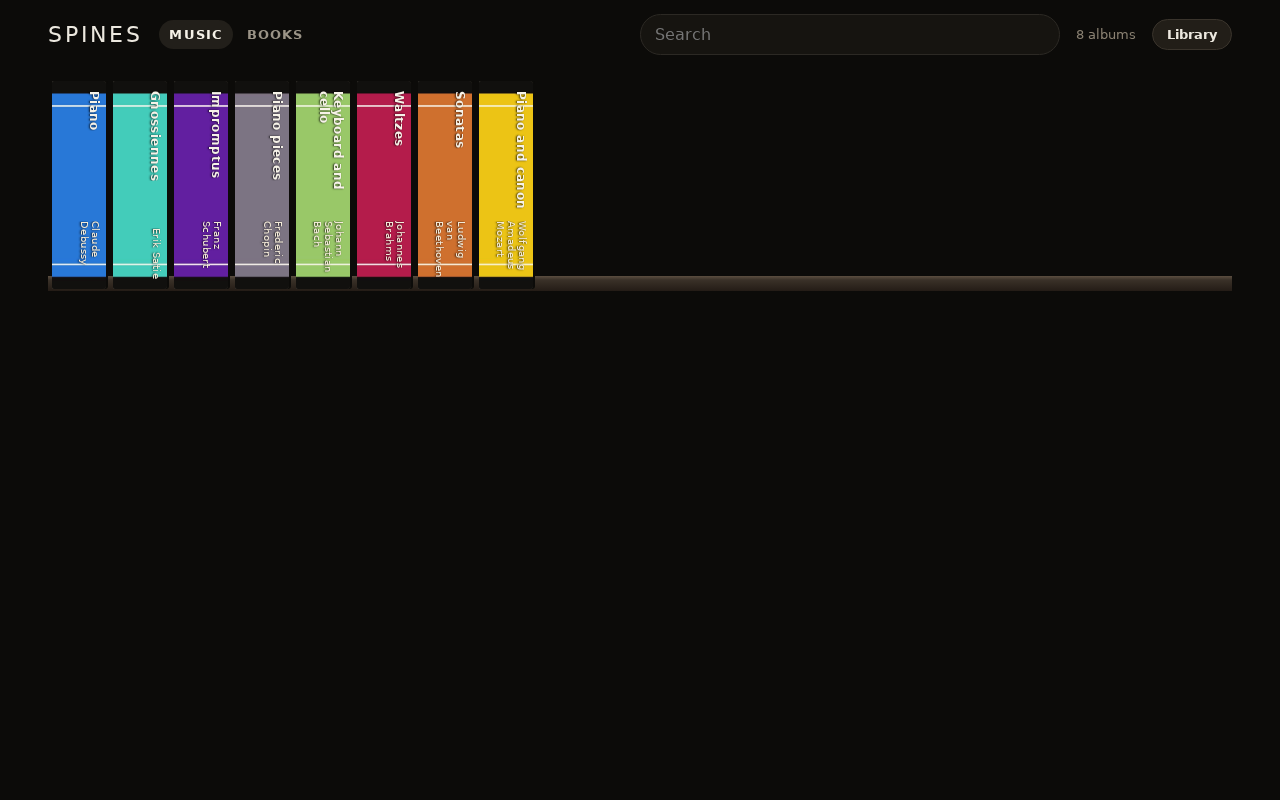
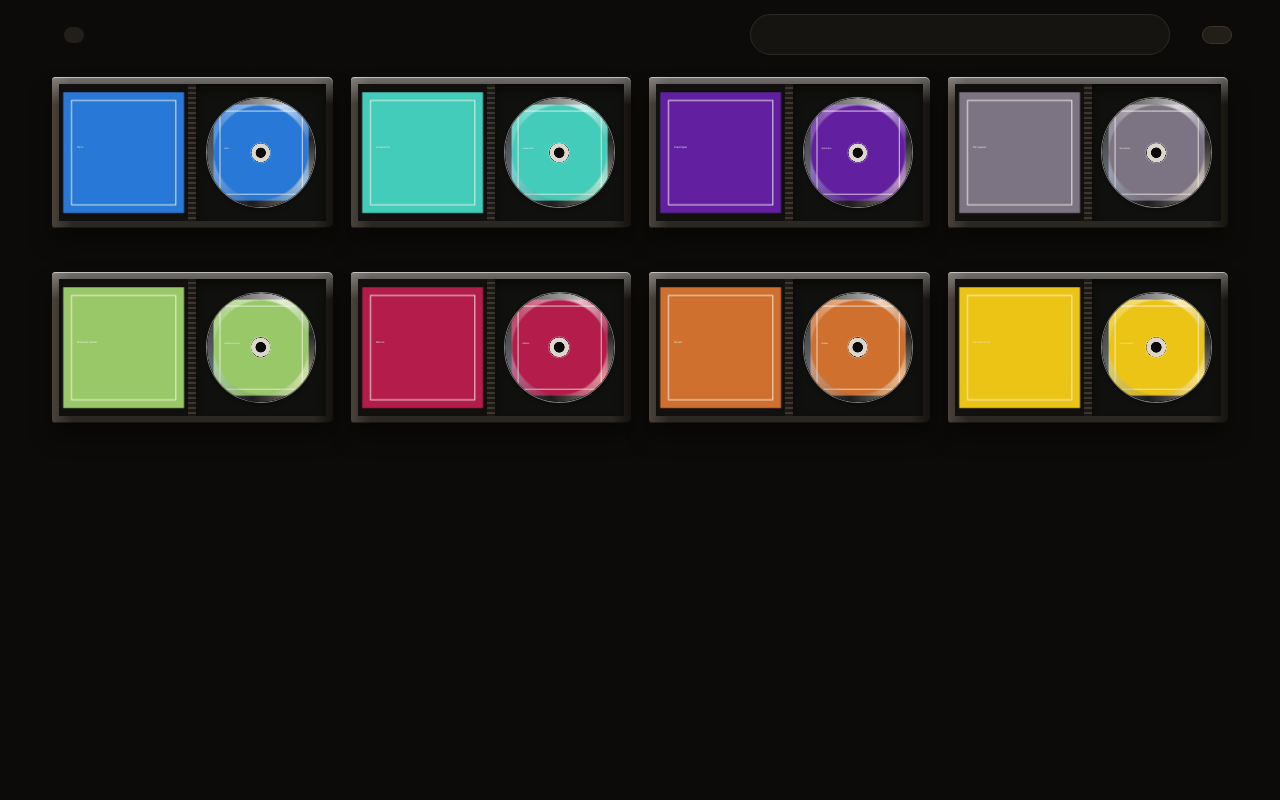
ui: show each album as an open CD case
The shelf was a row of colored spines, so the albums read as books. The cover sits on the left and the disc on the right. Tapping a case slides the disc out and plays the album.

diff --git a/ui/index.html b/ui/index.html
@@ -70,88 +70,124 @@
   main { padding: 0 clamp(12px, 4vw, 48px) 80px; }
   #status { color: #b7ad9e; padding: 48px 0; text-align: center; }
   .wall {
-    --spine-h: 208px;
-    --plank: 14px;
-    --row: calc(var(--spine-h) + 48px);
-    display: flex;
-    flex-wrap: wrap;
-    align-items: flex-end;
-    column-gap: 7px;
-    row-gap: 48px;
-    padding: 12px 4px 24px;
-    background:
-      linear-gradient(to bottom,
-        transparent calc(var(--spine-h) - 1px),
-        #5c4e40 calc(var(--spine-h) - 1px),
-        #3a3128 calc(var(--spine-h) + 3px),
-        #241c16 calc(var(--spine-h) + var(--plank)),
-        transparent calc(var(--spine-h) + var(--plank)))
-      0 0 / 100% var(--row) repeat-y;
+    display: grid;
+    grid-template-columns: repeat(auto-fill, minmax(240px, 1fr));
+    gap: 28px 18px;
+    padding: 8px 4px 40px;
   }
   .case {
     all: unset;
     cursor: pointer;
+    display: grid;
+    gap: 8px;
+    min-width: 0;
     position: relative;
-    width: 54px;
-    height: var(--spine-h);
-    transition: transform 0.45s cubic-bezier(0.2, 0.8, 0.2, 1);
   }
-  .case:focus-visible { outline: 2px solid #e4c27a; outline-offset: 4px; }
-  .case:active { transform: translateY(-6px); }
-  .case.out { transform: translateY(-36px); z-index: 2; }
-  .sleeve {
+  .case:focus-visible .jewel { outline: 2px solid #e4c27a; outline-offset: 4px; }
+  .jewel, .disc { transition: transform 0.45s cubic-bezier(0.2, 0.8, 0.2, 1); }
+  .case:active .jewel { transform: translateY(-4px); }
+  .case.out { z-index: 2; }
+  .case.out .jewel { transform: translateY(-8px); }
+  .case.out .disc { transform: translateX(78%); }
+  .jewel {
     position: relative;
-    display: block;
+    display: grid;
+    grid-template-columns: 1fr 8px 1fr;
     width: 100%;
-    height: 100%;
+    aspect-ratio: 1.86 / 1;
+    padding: 7px;
+    border-radius: 3px 5px 5px 3px;
+    background:
+      linear-gradient(180deg, rgba(255,255,255,0.34), rgba(255,255,255,0) 18%),
+      linear-gradient(90deg, #4a433c, #2b2722 7%, #2b2722 93%, #161310);
+    box-shadow:
+      inset 0 1px 0 rgba(255,255,255,0.55),
+      inset 0 -1px 0 rgba(0,0,0,0.45),
+      0 14px 22px rgba(0,0,0,0.38);
+  }
+  .booklet, .tray, .hinge { min-width: 0; min-height: 0; }
+  .booklet {
     overflow: hidden;
-    border-radius: 2px 3px 3px 2px;
-    background: #14120f;
-    box-shadow:
-      inset 2px 0 0 rgba(255,255,255,0.42),
-      inset -4px 0 6px rgba(0,0,0,0.45),
-      2px 0 0 #0c0b09;
+    background: #111;
+    box-shadow: inset 0 0 0 1px rgba(255,255,255,0.2);
   }
-  .case.out .sleeve {
-    box-shadow:
-      inset 2px 0 0 rgba(255,255,255,0.5),
-      10px 18px 24px rgba(0,0,0,0.55);
-  }
-  .sleeve img {
-    position: absolute;
-    inset: 0;
+  .booklet img, .disc img {
     width: 100%;
     height: 100%;
     object-fit: cover;
     display: block;
     background: #3a342c;
   }
-  .case-title, .case-artist {
-    position: absolute;
-    left: 8px;
-    right: 5px;
+  .hinge {
+    background: repeating-linear-gradient(#1a1714 0 3px, #3c362f 3px 5px);
+  }
+  .tray {
+    display: grid;
+    place-items: center;
+    overflow: visible;
+    background:
+      radial-gradient(circle at 50% 50%, #2a261f 0 46%, #10100e 47% 100%);
+    box-shadow: inset 0 6px 10px rgba(0,0,0,0.45);
+  }
+  .disc {
+    position: relative;
+    width: 84%;
+    aspect-ratio: 1;
+    border-radius: 50%;
     overflow: hidden;
-    writing-mode: vertical-rl;
-    text-orientation: mixed;
+    box-shadow:
+      0 0 0 1px rgba(255,255,255,0.45),
+      0 2px 5px rgba(0,0,0,0.45);
+  }
+  .disc::before {
+    content: "";
+    position: absolute;
+    inset: 0;
+    border-radius: 50%;
+    pointer-events: none;
+    background: conic-gradient(from 24deg,
+      rgba(255,255,255,0.72),
+      rgba(150,160,176,0.15) 14%,
+      rgba(255,244,220,0.55) 28%,
+      rgba(80,80,88,0.2) 46%,
+      rgba(190,210,230,0.45) 62%,
+      rgba(255,255,255,0.2) 78%,
+      rgba(255,255,255,0.7));
+    -webkit-mask: radial-gradient(circle, transparent 0 60%, #000 63%);
+    mask: radial-gradient(circle, transparent 0 60%, #000 63%);
+  }
+  .disc::after {
+    content: "";
+    position: absolute;
+    left: 50%;
+    top: 50%;
+    width: 18%;
+    aspect-ratio: 1;
+    transform: translate(-50%, -50%);
+    border-radius: 50%;
+    background: radial-gradient(circle, #0c0b09 0 36%, #ddd6cc 40% 68%, #0c0b09 70%);
+    box-shadow: 0 0 0 1px rgba(255,255,255,0.28);
+  }
+  .case-title, .case-artist {
+    display: block;
+    overflow: hidden;
+    text-align: center;
+    white-space: nowrap;
+    text-overflow: ellipsis;
     font-family: "Helvetica Neue", Helvetica, Arial, sans-serif;
-    color: #f6f2e8;
-    text-shadow: 0 1px 2px rgba(0,0,0,0.85);
   }
   .case-title {
-    top: 10px;
-    max-height: 62%;
-    font-size: 12px;
-    font-weight: 700;
-    letter-spacing: 0.03em;
+    font-size: 13px;
+    font-weight: 650;
+    color: #f6f2e8;
   }
   .case-artist {
-    bottom: 10px;
-    max-height: 28%;
-    font-size: 10px;
+    margin-top: -4px;
+    font-size: 12px;
     font-weight: 500;
-    letter-spacing: 0.04em;
-    color: #f3ead8;
+    color: #b7ad9e;
   }
+  .case-artist:empty { display: none; }
   .shelf {
     --gap: calc(56 * var(--u));
     --plank: calc(12 * var(--u));
@@ -252,7 +288,36 @@
   .player-top { display: flex; justify-content: space-between; align-items: start; gap: 12px; }
   .player-top h2 { margin: 0; font: 600 22px/1.2 "Helvetica Neue", Helvetica, Arial, sans-serif; }
   .player-top p { margin: 4px 0 0; color: #c8bba6; }
-  .player-cover { width: 100%; max-height: 280px; object-fit: contain; background: #2a241c; border-radius: 4px; }
+  .player-disc {
+    width: min(240px, 100%);
+    aspect-ratio: 1;
+    justify-self: center;
+    display: grid;
+    place-items: center;
+    border-radius: 50%;
+    background:
+      radial-gradient(circle at 50% 50%, #16130f 0 8%, transparent 9%),
+      conic-gradient(from 18deg, #f4f0e8, #9aa3ad, #f7f3ea, #6a6762, #e6d4be, #f4f0e8);
+    box-shadow: 0 16px 28px rgba(0,0,0,0.45);
+  }
+  .player-cover {
+    grid-area: 1 / 1;
+    width: 70%;
+    height: 70%;
+    max-height: none;
+    object-fit: cover;
+    border-radius: 50%;
+    background: #2a241c;
+  }
+  .player-disc::after {
+    content: "";
+    grid-area: 1 / 1;
+    width: 16%;
+    aspect-ratio: 1;
+    border-radius: 50%;
+    background: radial-gradient(circle, #16130f 0 34%, #ddd6cc 40% 68%, #16130f 70%);
+    box-shadow: 0 0 0 1px rgba(255,255,255,0.25);
+  }
   ol { list-style: none; margin: 0; padding: 0; overflow: auto; min-height: 0; }
   ol button {
     width: 100%;
@@ -338,8 +403,9 @@
     header input { flex: 1 0 100%; max-width: none; margin-left: 0; }
   }
   @media (prefers-reduced-motion: reduce) {
-    .case, #player, .spine, dialog.setup { transition: none; animation: none; }
-    .case.out, .case:active { transform: none; }
+    .case, .jewel, .disc, #player, .spine, dialog.setup { transition: none; animation: none; }
+    .case.out .jewel, .case.out .disc, .case:active .jewel { transform: none; }
+    .case.out .jewel { outline: 2px solid #e4c27a; }
   }
 </style>
 </head>
@@ -366,7 +432,7 @@
     </div>
     <button type="button" class="close" id="player-close">Close</button>
   </div>
-  <img id="player-cover" class="player-cover" alt="">
+  <div class="player-disc"><img id="player-cover" class="player-cover" alt=""></div>
   <ol id="tracks"></ol>
   <div class="transport">
     <button type="button" id="prev">Previous</button>
@@ -460,28 +526,46 @@ function termEmpty() {
   return q.value.trim() === "";
 }
 
+function coverUrl(item) {
+  return "/api/items/" + encodeURIComponent(item.id) + "/cover";
+}
+
 function caseButton(item) {
   const button = document.createElement("button");
   button.type = "button";
   button.className = "case";
   button.dataset.id = item.id;
+  button.setAttribute("aria-label", item.subtitle ? item.title + ", " + item.subtitle : item.title);
   if (album && album.id === item.id) button.classList.add("out");
-  const sleeve = document.createElement("span");
-  sleeve.className = "sleeve";
+  const jewel = document.createElement("span");
+  jewel.className = "jewel";
+  const booklet = document.createElement("span");
+  booklet.className = "booklet";
   const img = document.createElement("img");
   img.alt = "";
-  img.src = "/api/items/" + encodeURIComponent(item.id) + "/cover";
-  img.addEventListener("error", () => {
-    img.src = "/api/items/" + encodeURIComponent(item.id) + "/spine";
-  });
-  sleeve.append(img);
+  img.src = coverUrl(item);
+  img.addEventListener("error", () => { img.src = "/api/items/" + encodeURIComponent(item.id) + "/spine"; });
+  booklet.append(img);
+  const hinge = document.createElement("span");
+  hinge.className = "hinge";
+  const tray = document.createElement("span");
+  tray.className = "tray";
+  const disc = document.createElement("span");
+  disc.className = "disc";
+  const art = document.createElement("img");
+  art.alt = "";
+  art.src = coverUrl(item);
+  art.addEventListener("error", () => { art.remove(); });
+  disc.append(art);
+  tray.append(disc);
+  jewel.append(booklet, hinge, tray);
   const title = document.createElement("span");
   title.className = "case-title";
   title.textContent = item.title;
   const artist = document.createElement("span");
   artist.className = "case-artist";
   artist.textContent = item.subtitle;
-  button.append(sleeve, title, artist);
+  button.append(jewel, title, artist);
   button.addEventListener("click", () => openAlbum(item));
   return button;
 }

diff --git a/README.md b/README.md
@@ -44,7 +44,7 @@ The next start, with the same data folder, skips the setup screen. When the file
 
 ## Shelves
 
-Music is a row of CD jewel-case spines built from the album art and the tags. Tap a case. It slides out and plays in the browser. Previous and Next change the track.
+Music is a shelf of open CD cases. The cover is on the left and the disc is on the right. Tap a case. The disc slides out and the album plays in the browser. Previous and Next change the track.
 
 Books stand on a plank. The color comes from the cover. The width and the type come from the Calibre row, using the same rules as the bookshelf app at `163a6445`. The page shows the title, the authors, and the formats. It does not read the book and it does not download the file. Calibre-Web still owns the files.
 
